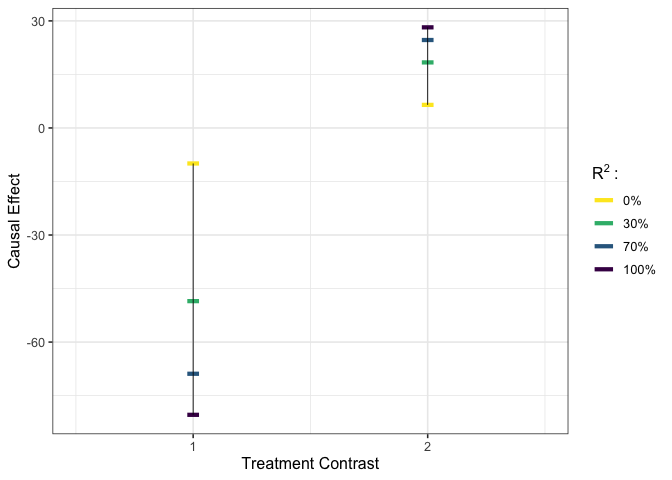
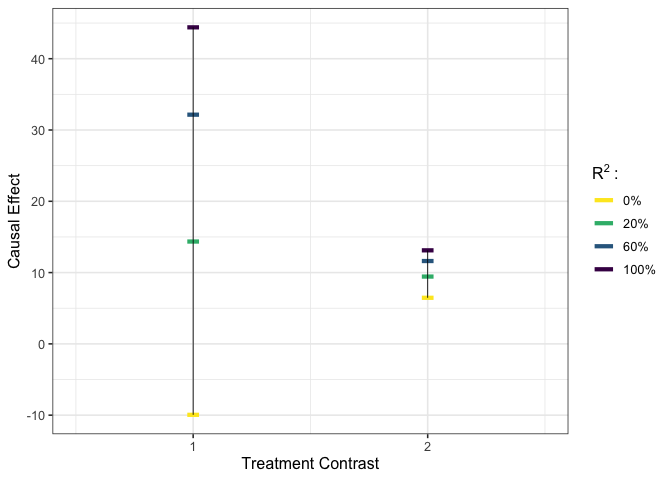
tuning parameters specification

diff --git a/README.md b/README.md
@@ -52,7 +52,7 @@ tr <- subset(GaussianT_GaussianY, select = -c(y))
 
 # execute worst-case calibration #
 est_g1 <- gcalibrate(y = y, tr = tr, t1 = tr[c(1,2,1698),], tr[c(3,4,6698),],
-                     calitype = "worstcase", R2 = c(0.6, 1))
+                     calitype = "worstcase", R2 = c(0.3, 1))
 #> Fitting the latent confounder model by PPCA with default.
 #> 1:2:3:4:5:6:7:8:9:10:1:2:3:4:5:6:7:8:9:10:1:2:3:4:5:6:7:8:9:10:1:2:3:4:5:6:7:8:9:10:1:2:3:4:5:6:7:8:9:10:
 #> Observed outcome model fitted by simple linear regression with default.
@@ -82,7 +82,7 @@ plot_estimates(est_g2)
 # execute user-specified calibration #
 est_g3 <- gcalibrate(y = y, tr = tr, t1 = tr[1:2,], t2 = tr[3:4,],
                      calitype = "null", gamma = c(0.96, -0.29, 0),
-                     R2 = c(0.3, 0.7, 1))
+                     R2 = c(0.2, 0.6, 1))
 #> Fitting the latent confounder model by PPCA with default.
 #> 1:2:3:4:5:6:7:8:9:10:1:2:3:4:5:6:7:8:9:10:1:2:3:4:5:6:7:8:9:10:1:2:3:4:5:6:7:8:9:10:1:2:3:4:5:6:7:8:9:10:
 #> Observed outcome model fitted by simple linear regression with default.
@@ -97,7 +97,7 @@ plot_estimates(est_g3)
 # apply gamma that maximizes the bias for the first contrast considered in est_g1 #
 est_g4 <- gcalibrate(y = y, tr = tr, t1 = tr[1:2,], t2 = tr[3:4,],
                      calitype = "null", gamma = est_g1$gamma[1,],
-                     R2 = c(0.3, 0.7, 1))
+                     R2 = c(0.2, 0.6, 1))
 #> Fitting the latent confounder model by PPCA with default.
 #> 1:2:3:4:5:6:7:8:9:10:1:2:3:4:5:6:7:8:9:10:1:2:3:4:5:6:7:8:9:10:1:2:3:4:5:6:7:8:9:10:1:2:3:4:5:6:7:8:9:10:
 #> Observed outcome model fitted by simple linear regression with default.
@@ -120,11 +120,11 @@ t2 <- rep(0, times = ncol(tr))
 # calibrate #
 est_df <- bcalibrate(y = y, tr = tr, t = rbind(t1, t2),
                      gamma = c(1.27, -0.28, 0),
-                     R2 = c(0.5, 0.7))$est_df
+                     R2 = c(0.2, 0.7))$est_df
 #> Fitting the latent confounder model by PPCA with default.
 #> 1:2:3:4:5:6:7:8:9:10:1:2:3:4:5:6:7:8:9:10:1:2:3:4:5:6:7:8:9:10:1:2:3:4:5:6:7:8:9:10:1:2:3:4:5:6:7:8:9:10:
 #> Observed outcome model fitted by simple probit model with default.
-#> R2 =  0.5 , calibrating observation 1  2  3  4  5  6  
+#> R2 =  0.2 , calibrating observation 1  2  3  4  5  6  
 #> R2 =  0.7 , calibrating observation 1  2  3  4  5  6
 # calculate risk ratio estimator #
 rr_df <- est_df[1:5,] / as.numeric(est_df[6,])
